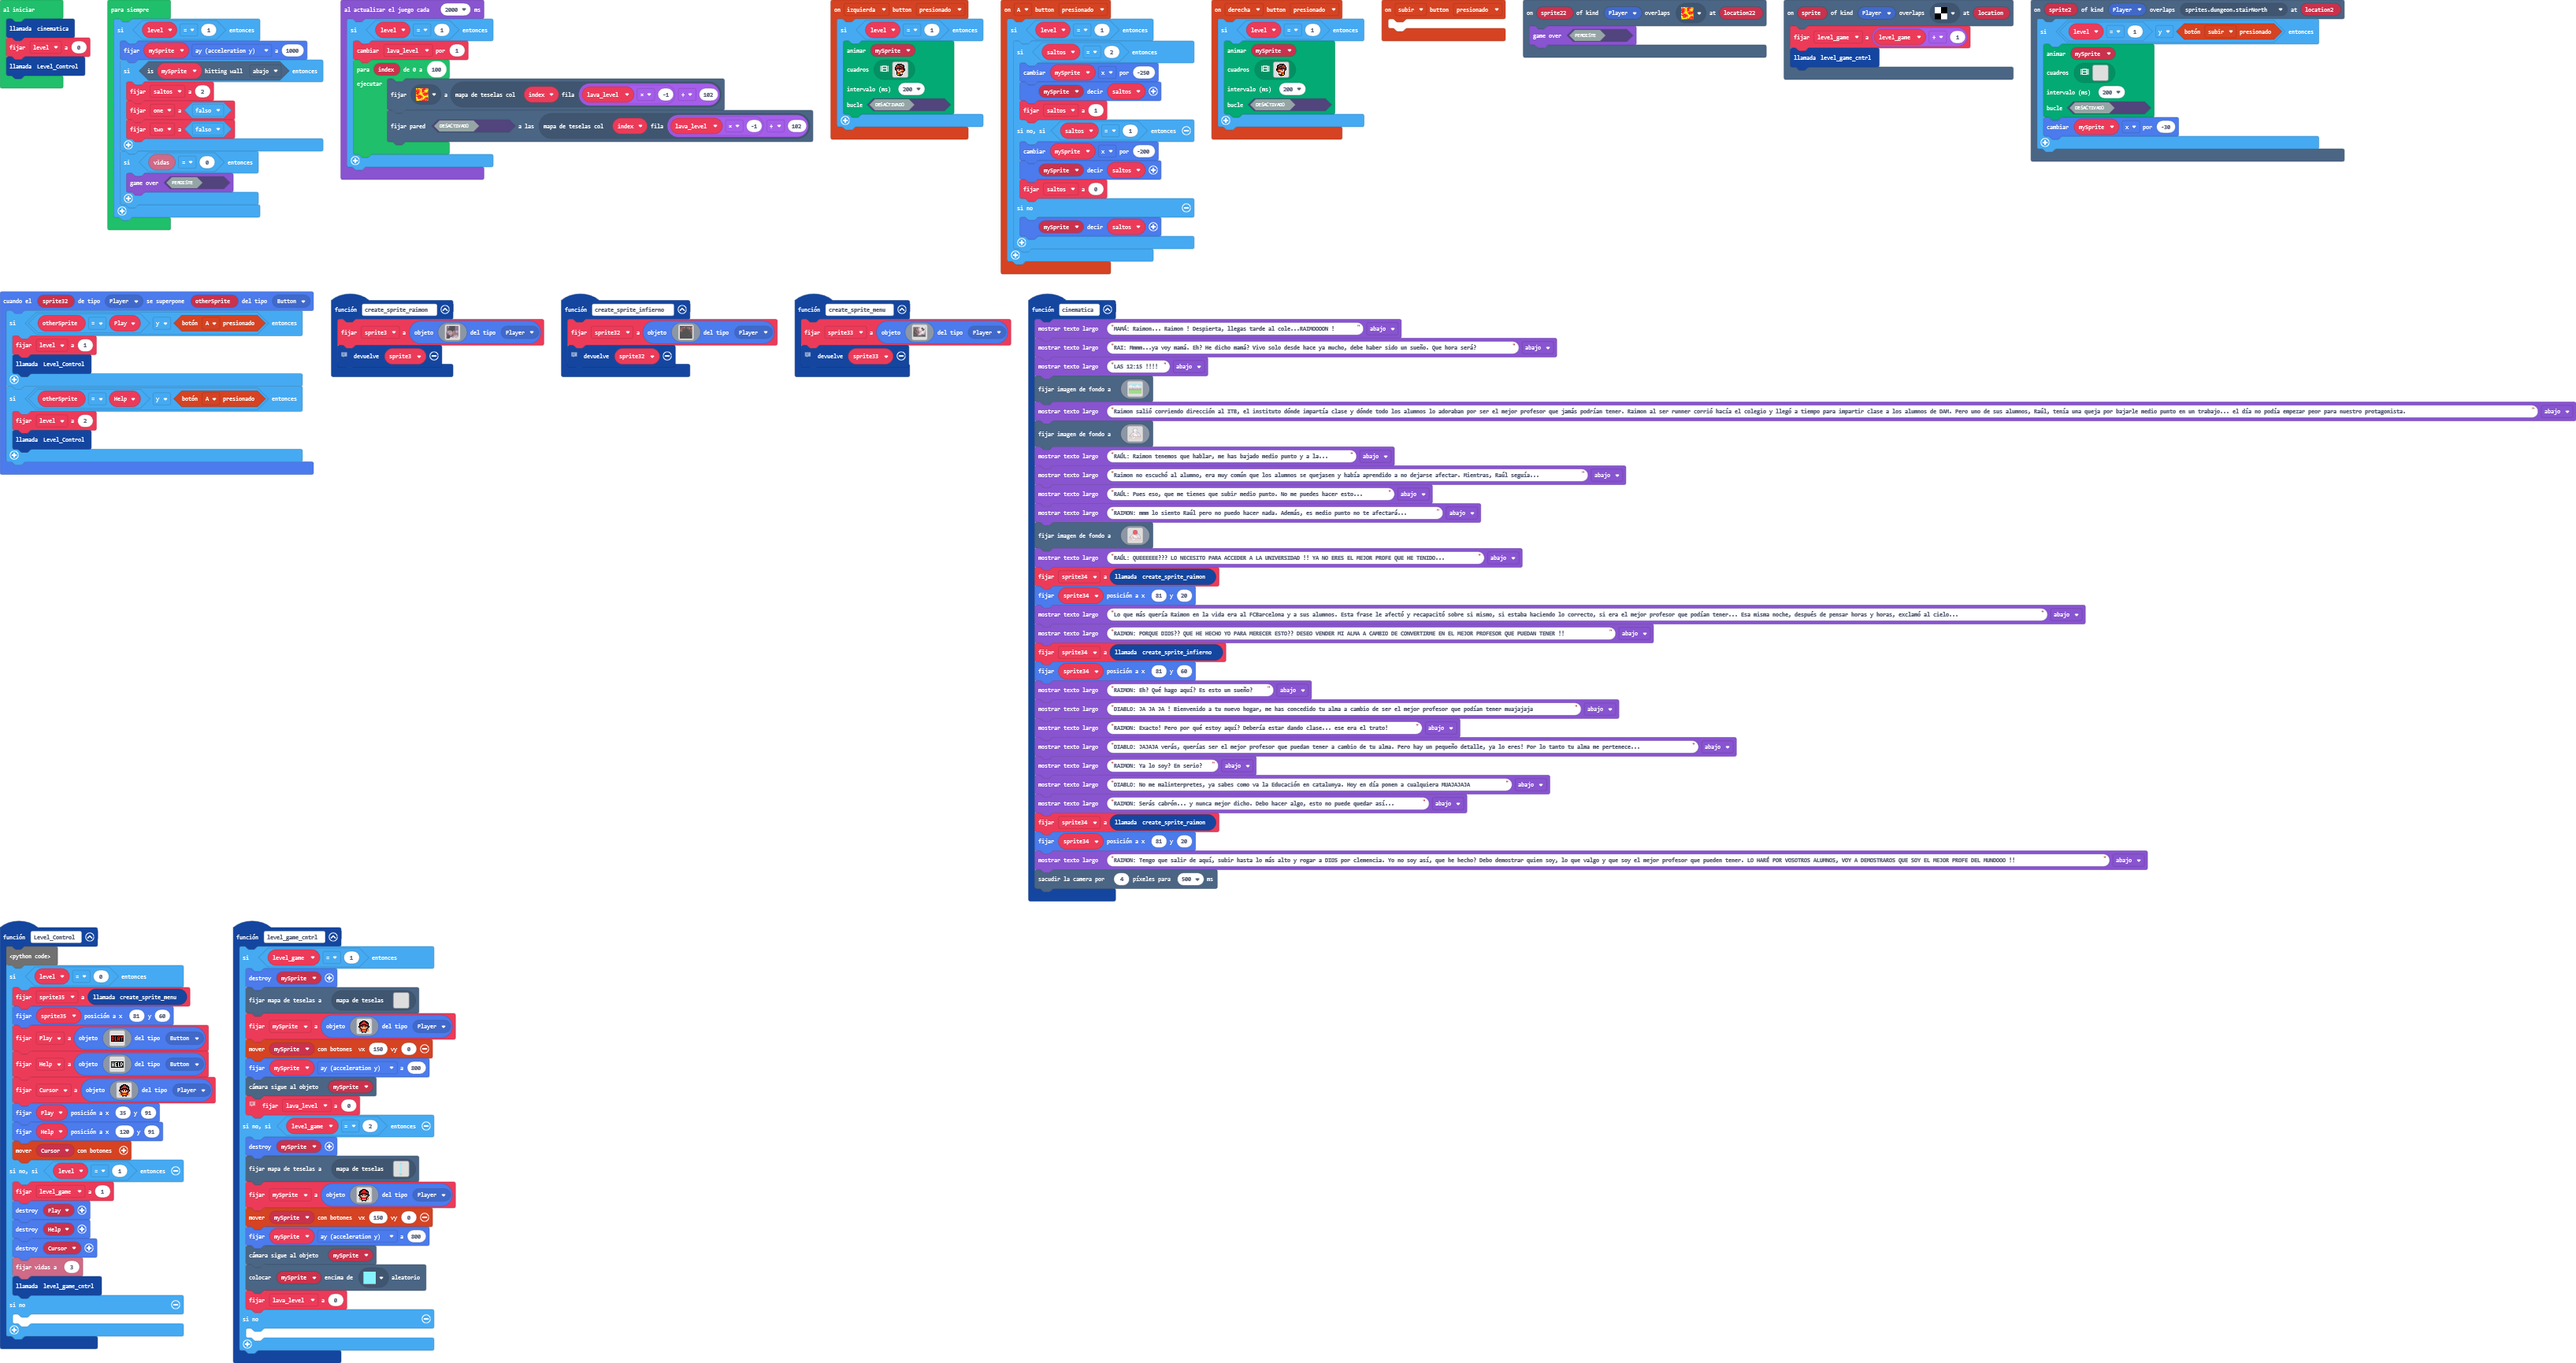
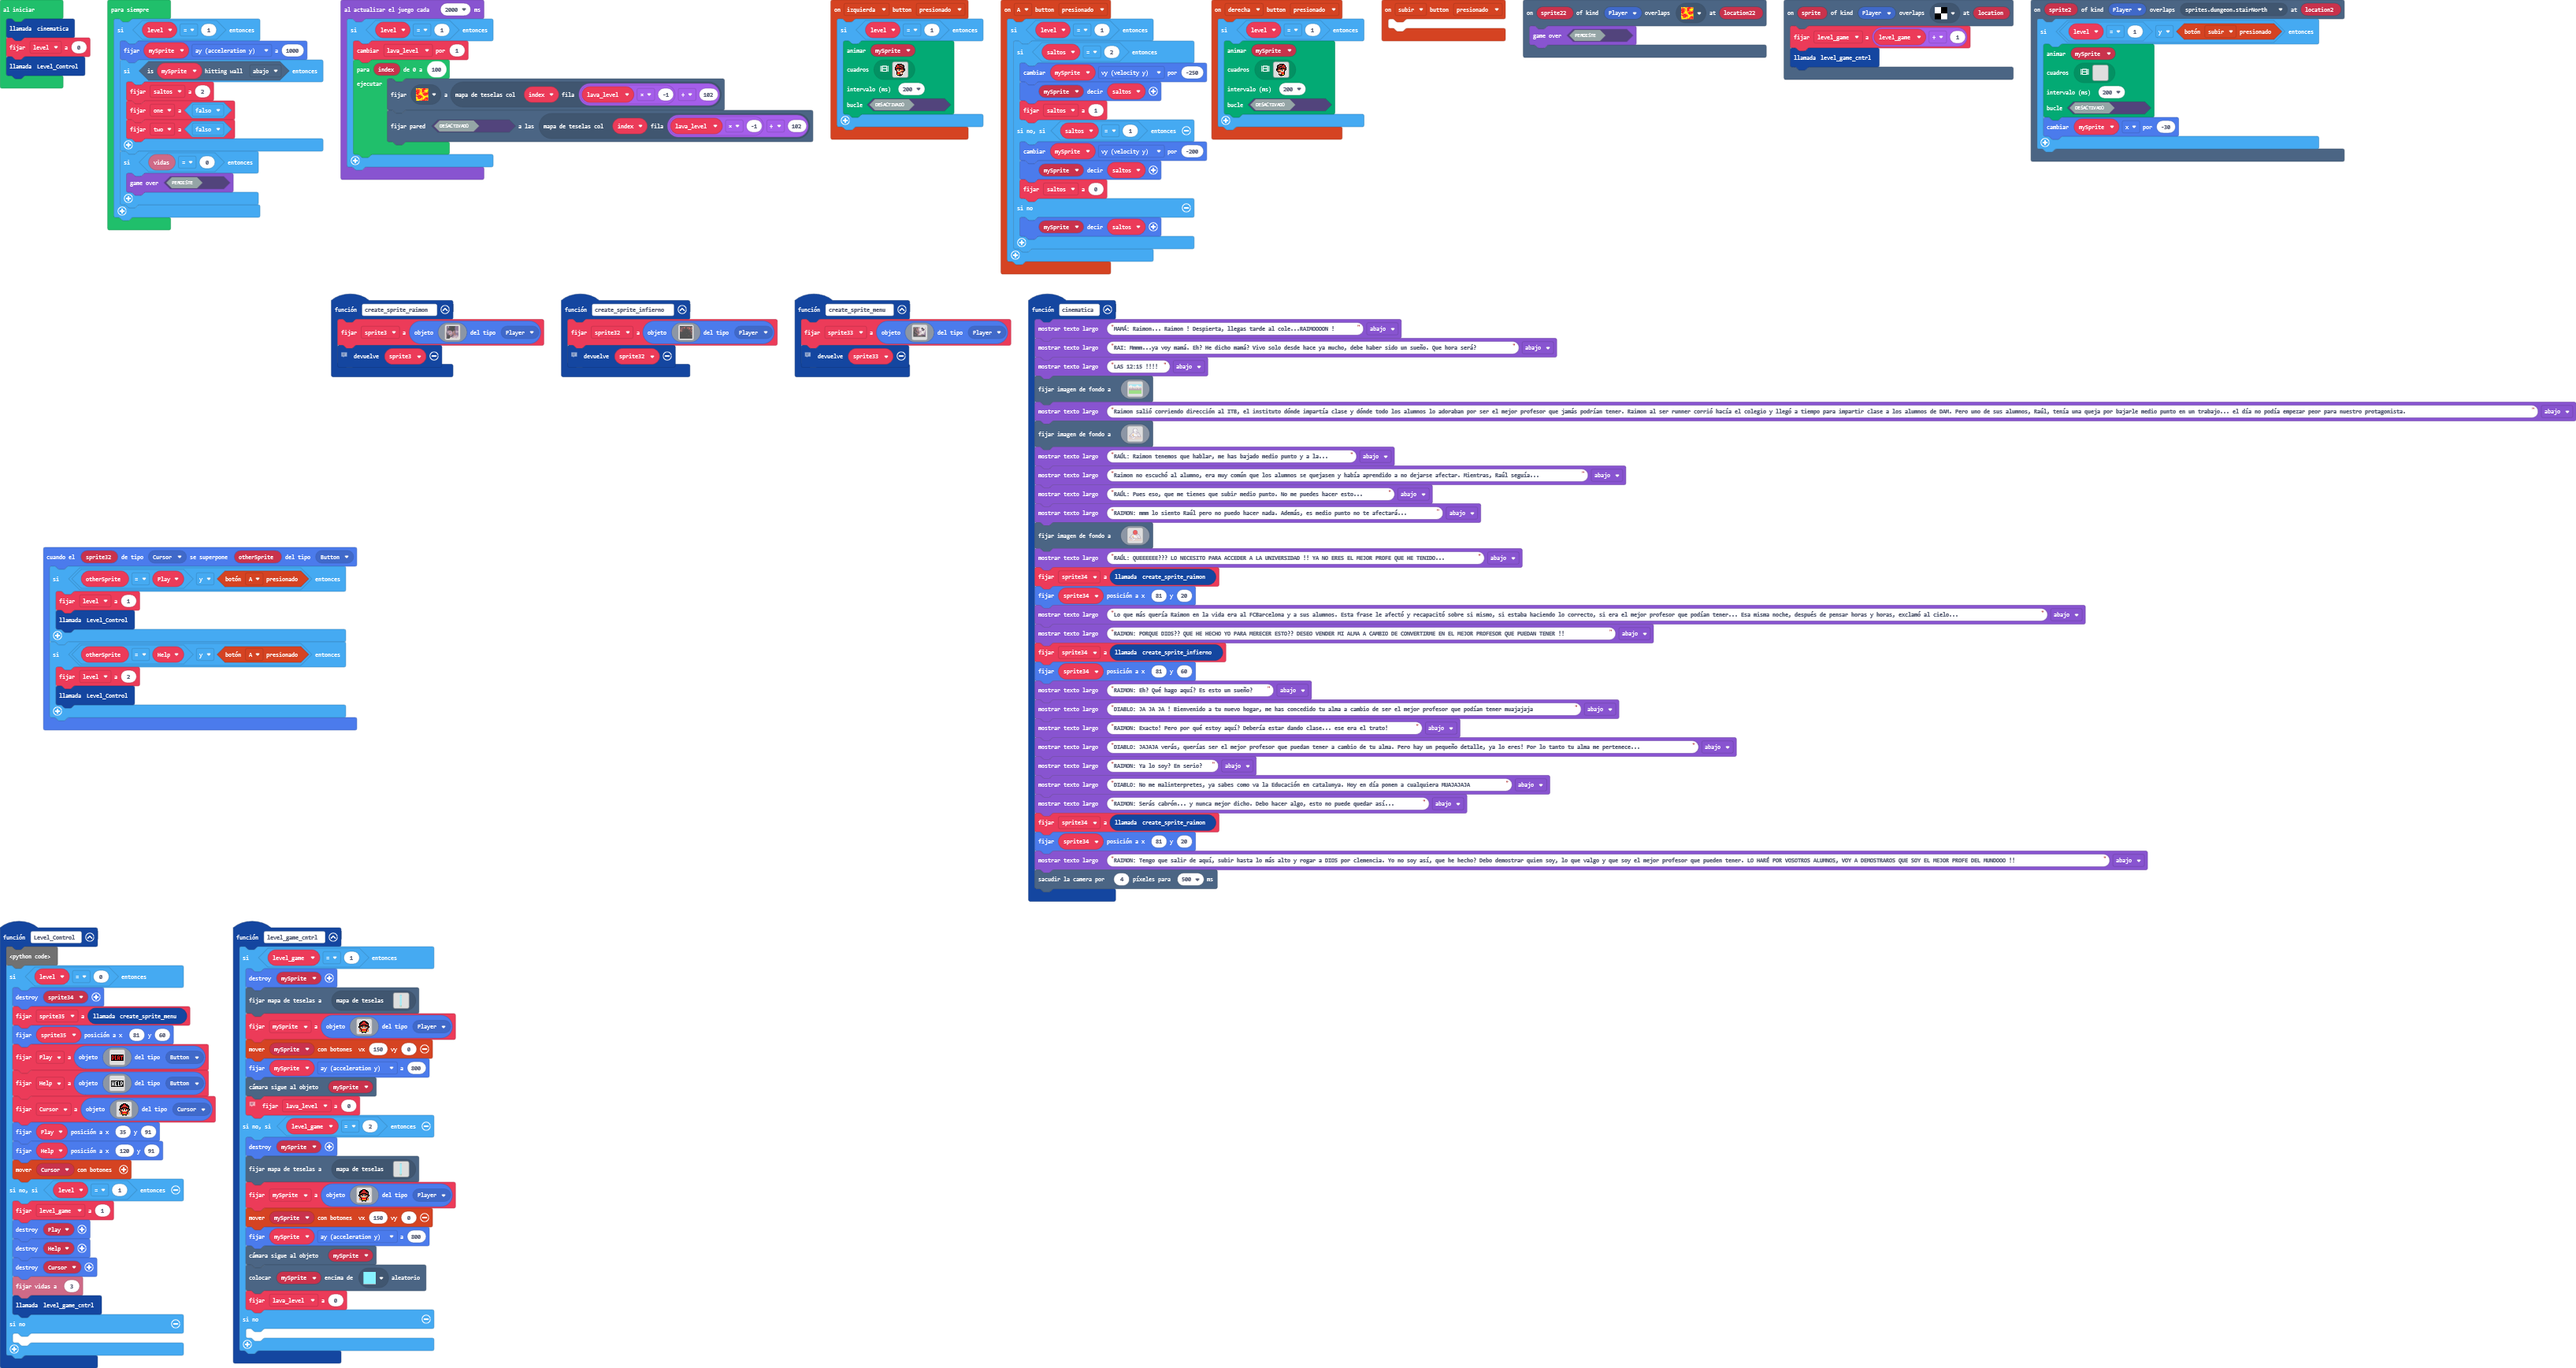
FALTAN COSITAS

diff --git a/tilemap.g.ts b/tilemap.g.ts
@@ -288,6 +288,63 @@ namespace myTiles {
 . . . . . . . . . . . . . . . . 
 . . . . . . . . . . . . . . . . 
 `, [myTiles.transparency16], TileScale.Sixteen);
+            case "nivel7":
+            case "nivel7":return tiles.createTilemap(hex`1000100000000000000000000000000000000000000000000000000000000000000000000000000000000000000000000000000000000000000000000000000000000000000000000000000000000000000000000000000000000000000000000000000000000000000000000000000000000000000000000000000000000000000000000000000000000000000000000000000000000000000000000000000000000000000000000000000000000000000000000000000000000000000000000000000000000000000000000000000000000000000000000000000000000000000000000000000000000000000000000000000000000000000000000000000000000000`, img`
+. . . . . . . . . . . . . . . . 
+. . . . . . . . . . . . . . . . 
+. . . . . . . . . . . . . . . . 
+. . . . . . . . . . . . . . . . 
+. . . . . . . . . . . . . . . . 
+. . . . . . . . . . . . . . . . 
+. . . . . . . . . . . . . . . . 
+. . . . . . . . . . . . . . . . 
+. . . . . . . . . . . . . . . . 
+. . . . . . . . . . . . . . . . 
+. . . . . . . . . . . . . . . . 
+. . . . . . . . . . . . . . . . 
+. . . . . . . . . . . . . . . . 
+. . . . . . . . . . . . . . . . 
+. . . . . . . . . . . . . . . . 
+. . . . . . . . . . . . . . . . 
+`, [myTiles.transparency16], TileScale.Sixteen);
+            case "nivel8":
+            case "nivel8":return tiles.createTilemap(hex`1000100000000000000000000000000000000000000000000000000000000000000000000000000000000000000000000000000000000000000000000000000000000000000000000000000000000000000000000000000000000000000000000000000000000000000000000000000000000000000000000000000000000000000000000000000000000000000000000000000000000000000000000000000000000000000000000000000000000000000000000000000000000000000000000000000000000000000000000000000000000000000000000000000000000000000000000000000000000000000000000000000000000000000000000000000000000000`, img`
+. . . . . . . . . . . . . . . . 
+. . . . . . . . . . . . . . . . 
+. . . . . . . . . . . . . . . . 
+. . . . . . . . . . . . . . . . 
+. . . . . . . . . . . . . . . . 
+. . . . . . . . . . . . . . . . 
+. . . . . . . . . . . . . . . . 
+. . . . . . . . . . . . . . . . 
+. . . . . . . . . . . . . . . . 
+. . . . . . . . . . . . . . . . 
+. . . . . . . . . . . . . . . . 
+. . . . . . . . . . . . . . . . 
+. . . . . . . . . . . . . . . . 
+. . . . . . . . . . . . . . . . 
+. . . . . . . . . . . . . . . . 
+. . . . . . . . . . . . . . . . 
+`, [myTiles.transparency16], TileScale.Sixteen);
+            case "nivel9":
+            case "nivel9":return tiles.createTilemap(hex`1000100000000000000000000000000000000000000000000000000000000000000000000000000000000000000000000000000000000000000000000000000000000000000000000000000000000000000000000000000000000000000000000000000000000000000000000000000000000000000000000000000000000000000000000000000000000000000000000000000000000000000000000000000000000000000000000000000000000000000000000000000000000000000000000000000000000000000000000000000000000000000000000000000000000000000000000000000000000000000000000000000000000000000000000000000000000000`, img`
+. . . . . . . . . . . . . . . . 
+. . . . . . . . . . . . . . . . 
+. . . . . . . . . . . . . . . . 
+. . . . . . . . . . . . . . . . 
+. . . . . . . . . . . . . . . . 
+. . . . . . . . . . . . . . . . 
+. . . . . . . . . . . . . . . . 
+. . . . . . . . . . . . . . . . 
+. . . . . . . . . . . . . . . . 
+. . . . . . . . . . . . . . . . 
+. . . . . . . . . . . . . . . . 
+. . . . . . . . . . . . . . . . 
+. . . . . . . . . . . . . . . . 
+. . . . . . . . . . . . . . . . 
+. . . . . . . . . . . . . . . . 
+. . . . . . . . . . . . . . . . 
+`, [myTiles.transparency16], TileScale.Sixteen);
         }
         return null;
     })

diff --git a/main.ts b/main.ts
@@ -1,16 +1,7 @@
 namespace SpriteKind {
     export const Button = SpriteKind.create()
+    export const Cursor = SpriteKind.create()
 }
-sprites.onOverlap(SpriteKind.Player, SpriteKind.Button, function (sprite32, otherSprite) {
-    if (otherSprite == Play && controller.A.isPressed()) {
-        level = 1
-        Level_Control()
-    }
-    if (otherSprite == Help && controller.A.isPressed()) {
-        level = 2
-        Level_Control()
-    }
-})
 scene.onOverlapTile(SpriteKind.Player, sprites.dungeon.stairNorth, function (sprite2, location2) {
     if (level == 1 && controller.up.isPressed()) {
         animation.runImageAnimation(
@@ -384,11 +375,11 @@ controller.left.onEvent(ControllerButtonEvent.Pressed, function () {
 controller.A.onEvent(ControllerButtonEvent.Pressed, function () {
     if (level == 1) {
         if (saltos == 2) {
-            mySprite.x += -250
+            mySprite.vy += -250
             mySprite.sayText(saltos)
             saltos = 1
         } else if (saltos == 1) {
-            mySprite.x += -200
+            mySprite.vy += -200
             mySprite.sayText(saltos)
             saltos = 0
         } else {
@@ -402,11 +393,12 @@ scene.onOverlapTile(SpriteKind.Player, assets.tile`lava`, function (sprite22, lo
 function Level_Control () {
     let sprite35: Sprite;
 if (level == 0) {
+        sprites.destroy(sprite34)
         sprite35 = create_sprite_menu()
         sprite35.setPosition(81, 60)
         Play = sprites.create(assets.image`play`, SpriteKind.Button)
         Help = sprites.create(assets.image`help`, SpriteKind.Button)
-        Cursor = sprites.create(assets.image`user`, SpriteKind.Player)
+        Cursor = sprites.create(assets.image`user`, SpriteKind.Cursor)
         Play.setPosition(35, 91)
         Help.setPosition(120, 91)
         controller.moveSprite(Cursor)
@@ -590,6 +582,16 @@ function create_sprite_infierno () {
     // sprite2.set_position(76, 81)
     return sprite32
 }
+sprites.onOverlap(SpriteKind.Cursor, SpriteKind.Button, function (sprite32, otherSprite) {
+    if (otherSprite == Play && controller.A.isPressed()) {
+        level = 1
+        Level_Control()
+    }
+    if (otherSprite == Help && controller.A.isPressed()) {
+        level = 2
+        Level_Control()
+    }
+})
 function create_sprite_menu () {
     sprite33 = sprites.create(img`
[1 lines of base64/hex data omitted]
@@ -719,7 +721,7 @@ function create_sprite_menu () {
 function level_game_cntrl () {
     if (level_game == 1) {
         sprites.destroy(mySprite)
-        tiles.setCurrentTilemap(tilemap`level4`)
+        tiles.setCurrentTilemap(tilemap`level2`)
         mySprite = sprites.create(assets.image`user`, SpriteKind.Player)
         controller.moveSprite(mySprite, 150, 0)
         mySprite.ay = 800
@@ -747,13 +749,13 @@ let lava_level = 0
 let sprite33: Sprite = null
 let sprite32: Sprite = null
 let Cursor: Sprite = null
+let Help: Sprite = null
+let Play: Sprite = null
 let saltos = 0
 let level_game = 0
 let sprite34: Sprite = null
 let sprite3: Sprite = null
 let mySprite: Sprite = null
-let Help: Sprite = null
-let Play: Sprite = null
 let level = 0
 cinematica()
 level = 0

diff --git a/main.py b/main.py
@@ -1,16 +1,7 @@
 @namespace
 class SpriteKind:
     Button = SpriteKind.create()
-
-def on_on_overlap(sprite32, otherSprite):
-    global level
-    if otherSprite == Play and controller.A.is_pressed():
-        level = 1
-        Level_Control()
-    if otherSprite == Help and controller.A.is_pressed():
-        level = 2
-        Level_Control()
-sprites.on_overlap(SpriteKind.player, SpriteKind.Button, on_on_overlap)
+    Cursor = SpriteKind.create()
 
 def on_overlap_tile(sprite2, location2):
     if level == 1 and controller.up.is_pressed():
@@ -415,11 +406,11 @@ def on_a_pressed():
     global saltos
     if level == 1:
         if saltos == 2:
-            mySprite.x += -250
+            mySprite.vy += -250
             mySprite.say_text(saltos)
             saltos = 1
         elif saltos == 1:
-            mySprite.x += -200
+            mySprite.vy += -200
             mySprite.say_text(saltos)
             saltos = 0
         else:
@@ -435,8 +426,9 @@ scene.on_overlap_tile(SpriteKind.player,
     on_overlap_tile3)
 
 def Level_Control():
-    global Play, Help, Cursor, level_game
+    global Play, Help, Cursor2, level_game
     if level == 0:
+        sprites.destroy(sprite34)
         sprite35 = create_sprite_menu()
         sprite35.set_position(81, 60)
         Play = sprites.create(assets.image("""
@@ -445,17 +437,17 @@ def Level_Control():
         Help = sprites.create(assets.image("""
             help
         """), SpriteKind.Button)
-        Cursor = sprites.create(assets.image("""
+        Cursor2 = sprites.create(assets.image("""
             user
-        """), SpriteKind.player)
+        """), SpriteKind.Cursor)
         Play.set_position(35, 91)
         Help.set_position(120, 91)
-        controller.move_sprite(Cursor)
+        controller.move_sprite(Cursor2)
     elif level == 1:
         level_game = 1
         sprites.destroy(Play)
         sprites.destroy(Help)
-        sprites.destroy(Cursor)
+        sprites.destroy(Cursor2)
         info.set_life(3)
         level_game_cntrl()
     else:
@@ -632,6 +624,17 @@ def create_sprite_infierno():
         SpriteKind.player)
     # sprite2.set_position(76, 81)
     return sprite322
+
+def on_on_overlap(sprite32, otherSprite):
+    global level
+    if otherSprite == Play and controller.A.is_pressed():
+        level = 1
+        Level_Control()
+    if otherSprite == Help and controller.A.is_pressed():
+        level = 2
+        Level_Control()
+sprites.on_overlap(SpriteKind.Cursor, SpriteKind.Button, on_on_overlap)
+
 def create_sprite_menu():
     global sprite33
     sprite33 = sprites.create(img("""
@@ -764,7 +767,7 @@ def level_game_cntrl():
     if level_game == 1:
         sprites.destroy(mySprite)
         tiles.set_current_tilemap(tilemap("""
-            level4
+            level2
         """))
         mySprite = sprites.create(assets.image("""
             user
@@ -798,14 +801,14 @@ one = False
 lava_level = 0
 sprite33: Sprite = None
 sprite322: Sprite = None
-Cursor: Sprite = None
+Cursor2: Sprite = None
+Help: Sprite = None
+Play: Sprite = None
 saltos = 0
 level_game = 0
 sprite34: Sprite = None
 sprite3: Sprite = None
 mySprite: Sprite = None
-Help: Sprite = None
-Play: Sprite = None
 level = 0
 cinematica()
 level = 0
